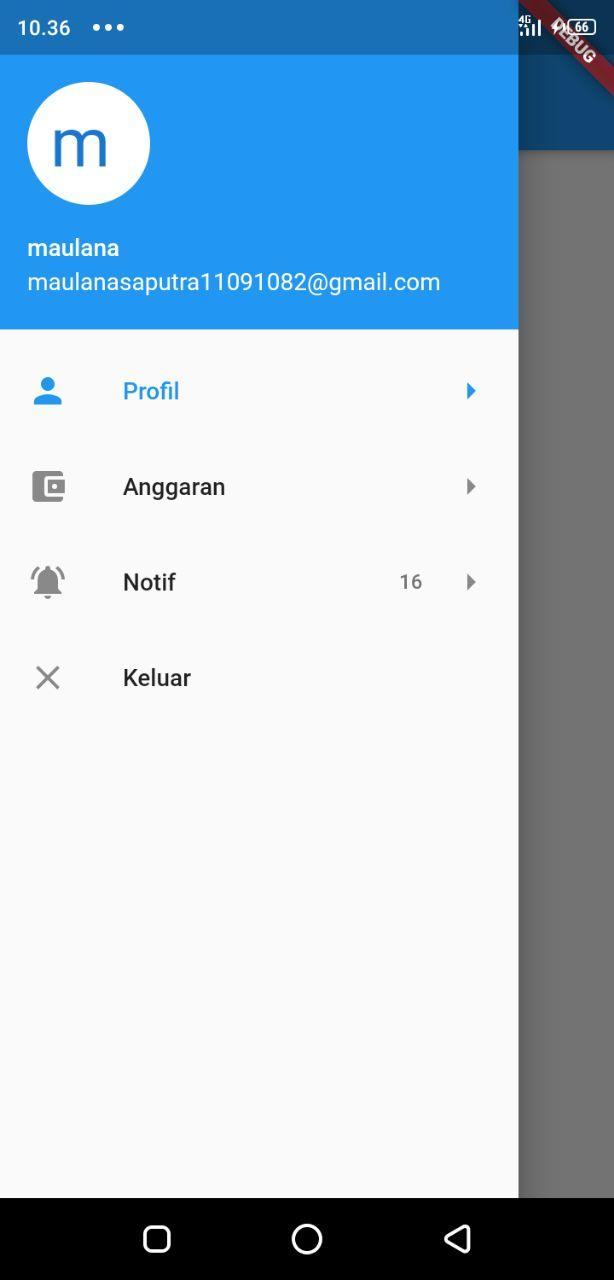
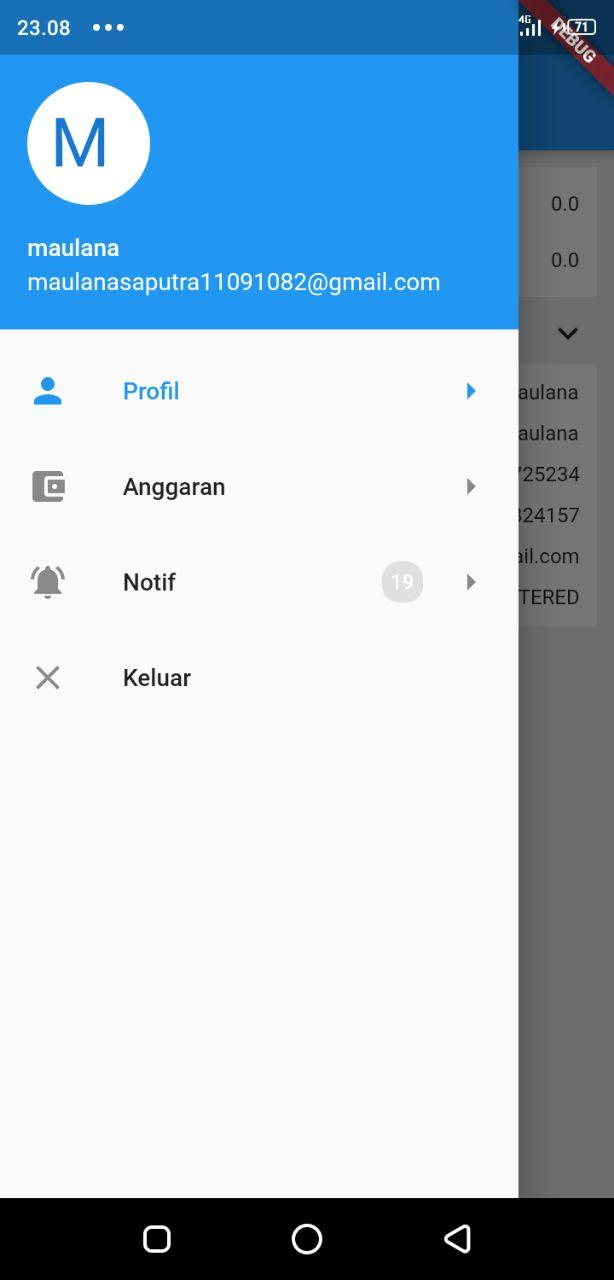
fixed on issued #1

diff --git a/example/lib/screen/home/fragment/profile_fragment.dart b/example/lib/screen/home/fragment/profile_fragment.dart
@@ -58,20 +58,25 @@ class _ProfileFragmentState extends State<ProfileFragment> {
 			child: ListView(
 				padding: EdgeInsets.zero,
 				children: [
-					Container(
-						padding: EdgeInsets.all(5.0),
-						color: Colors.white,
-						child: Column(
-							children: [
-								dataOvo('OVO', '${result['balance']['OVO']['card_no']}', double.parse('${result['balance']['OVO']['cardBalance']}')),
-								dataOvo('OVO Cash', '${result['balance']['OVOCash']['card_no']}', double.parse('${result['balance']['OVOCash']['cardBalance']}')),
-							]
-						),
-					),
+					infoOvo(),
 					SizedBox(height: 5.0),
-					dataProfile()
+					setTitle('Data Pribadi'),
+					infoProfile()
 				]
 			)
+		);
+	}
+	
+	Widget infoOvo() {
+		return Container(
+			padding: EdgeInsets.all(5.0),
+			color: Colors.white,
+			child: Column(
+				children: [
+					dataOvo('OVO', '${result['balance']['OVO']['card_no']}', double.parse('${result['balance']['OVO']['cardBalance']}')),
+					dataOvo('OVO Cash', '${result['balance']['OVOCash']['card_no']}', double.parse('${result['balance']['OVOCash']['cardBalance']}')),
+				]
+			),
 		);
 	}
 	
@@ -86,34 +91,64 @@ class _ProfileFragmentState extends State<ProfileFragment> {
 						child: Row(
 							mainAxisAlignment: MainAxisAlignment.spaceBetween,
 							children: [
-								Text(type, style: TextStyle(fontSize: 14.0)),
+								Text(type, style: TextStyle(fontSize: 12.0, fontWeight: FontWeight.bold)),
 								Container(
 									padding: EdgeInsets.all(5.0),
 									decoration: BoxDecoration(
 										color: Colors.grey[300],
 										borderRadius: BorderRadius.circular(10.0),
 									),
-									child: Text(card, style: TextStyle(color: Colors.white, fontSize: 12.0)),
+									child: Text(card, style: TextStyle(color: Colors.white, fontSize: 11.0)),
 								),
 							]
 						),
 					),
-					Text('${balance}', style: TextStyle(fontSize: 14.0)),
+					Text('${balance}', style: TextStyle(fontSize: 12.0)),
 				]
 			),
 		);
 	}
 	
-	Widget dataProfile() {
+	Widget setTitle(String title) {
 		return Container(
 			padding: EdgeInsets.all(5.0),
 			child: Row(
 				mainAxisAlignment: MainAxisAlignment.spaceBetween,
 				children: [
-					Text('Data Pribadi', style: TextStyle(fontSize: 14.0, fontWeight: FontWeight.bold)),
+					Text(title, style: TextStyle(fontSize: 14.0, fontWeight: FontWeight.bold)),
 					Icon(Icons.keyboard_arrow_down)
 				]
 			)
+		);
+	}
+	
+	Widget infoProfile() {
+		return Container(
+			padding: EdgeInsets.all(5.0),
+			color: Colors.white,
+			child: Column(
+				children: [
+					record('Nama', '${result['profile']['fullName']}'),
+					record('Nama Panggil', '${result['profile']['nickName']}'),
+					record('OVO ID', '${result['profile']['ovoId']}'),
+					record('No Handphone', '${result['profile']['telephones'][0]['number']}'),
+					record('Email', '${result['profile']['emails'][0]['address']}'),
+					record('Status', '${result['profile']['state']}'),
+				]
+			),
+		);
+	}
+	
+	Widget record(String name, String value) {
+		return Container(
+			padding: EdgeInsets.all(5.0),
+			child: Row(
+				mainAxisAlignment: MainAxisAlignment.spaceBetween,
+				children: [
+					Text(name, style: TextStyle(fontSize: 12.0, fontWeight: FontWeight.bold)),
+					Text(value, style: TextStyle(fontSize: 12.0)),
+				]
+			),
 		);
 	}
 }

diff --git a/example/lib/screen/home/fragment/budget_fragment.dart b/example/lib/screen/home/fragment/budget_fragment.dart
@@ -1,4 +1,5 @@
 import 'dart:async';
+import 'dart:convert';
 
 import 'package:flutter/material.dart';
 import 'package:shared_preferences/shared_preferences.dart';
@@ -12,6 +13,12 @@ class BudgetFragment extends StatefulWidget {
 class _BudgetFragmentState extends State<BudgetFragment> {
 	OvoidFlutter ovoid = new OvoidFlutter();
 	
+	bool isError = false;
+	String reason;
+	
+	List summary;
+	Map<String, dynamic> budget;
+	
 	Future<String> getPreference(String index) async {
 		SharedPreferences preferences = await SharedPreferences.getInstance();
 		return preferences.getString(index);
@@ -20,7 +27,14 @@ class _BudgetFragmentState extends State<BudgetFragment> {
 	getBudget() async {
 		ovoid.authToken = await getPreference('token');
 		final response = await ovoid.getBudget();
-		print(response);
+		
+		if (!["", null, false, 0].contains(response['code'])) {
+			setState(() => isError = true);
+			setState(() => reason = !["", null, false, 0].contains(response['message']) ? response['message'] : " ");
+		} else {
+			setState(() => summary = response['summary']);
+			setState(() => budget = response['budget']);
+		}
 	}
 	
 	@override
@@ -31,8 +45,87 @@ class _BudgetFragmentState extends State<BudgetFragment> {
 	
 	@override
 	Widget build(BuildContext context) {
+		return isError ? errorResult() : dataResult(context);
+	}
+	
+	Widget errorResult() {
 		return Center(
-			child: new Text("Hello Fragment Budget"),
+			child: new Text(reason),
+		);
+	}
+	
+	Widget dataResult(BuildContext context) {
+		return Container(
+			color: Colors.grey[200],
+			padding: EdgeInsets.all(10.0),
+			child: ListView(
+				padding: EdgeInsets.zero,
+				children: [
+					infoBudget(),
+					SizedBox(height: 5.0),
+					setTitle('Ringkasan'),
+					infoSummary()
+				]
+			),
+		);
+	}
+	
+	Widget infoBudget() {
+		return Container(
+			padding: EdgeInsets.all(5.0),
+			color: Colors.white,
+			child: Column(
+				children: [
+					record('Dana', double.parse('${budget['amount']}')),
+					record('Pengeluaran', double.parse('${budget['spending']}')),
+				]
+			),
+		);
+	}
+	
+	Widget setTitle(String title) {
+		return Container(
+			padding: EdgeInsets.all(5.0),
+			child: Row(
+				mainAxisAlignment: MainAxisAlignment.spaceBetween,
+				children: [
+					Text(title, style: TextStyle(fontSize: 14.0, fontWeight: FontWeight.bold)),
+					Icon(Icons.keyboard_arrow_down)
+				]
+			)
+		);
+	}
+	
+	Widget record(String name, double balance) {
+		return Container(
+			padding: EdgeInsets.all(5.0),
+			child: Row(
+				mainAxisAlignment: MainAxisAlignment.spaceBetween,
+				children: [
+					Text(name, style: TextStyle(fontSize: 12.0, fontWeight: FontWeight.bold)),
+					Text('${balance}', style: TextStyle(fontSize: 12.0)),
+				]
+			),
+		);
+	}
+	
+	Widget infoSummary() {
+		return ListView.builder(
+			shrinkWrap: true,
+			itemCount: summary.length,
+			itemBuilder: (context, index) {
+				return Card(
+					child: Padding(
+						padding: EdgeInsets.all(5.0),
+						child: Column(
+							children: [
+								record('Dana', double.parse('${summary[index]['amount']}')),
+								record('Pengeluaran', double.parse('${summary[index]['spending']}')),
+							]
+						),
+					),
+				);
+			},
 		);
 	}
 }

diff --git a/example/lib/screen/home/fragment/notification_fragment.dart b/example/lib/screen/home/fragment/notification_fragment.dart
@@ -1,4 +1,5 @@
 import 'dart:async';
+import 'dart:convert';
 
 import 'package:flutter/material.dart';
 import 'package:shared_preferences/shared_preferences.dart';
@@ -12,6 +13,11 @@ class NotificationFragment extends StatefulWidget {
 class _NotificationFragmentState extends State<NotificationFragment> {
 	OvoidFlutter ovoid = new OvoidFlutter();
 	
+	bool isError = false;
+	String reason;
+	
+	List notifications;
+	
 	Future<String> getPreference(String index) async {
 		SharedPreferences preferences = await SharedPreferences.getInstance();
 		return preferences.getString(index);
@@ -20,7 +26,13 @@ class _NotificationFragmentState extends State<NotificationFragment> {
 	getNotification() async {
 		ovoid.authToken = await getPreference('token');
 		final response = await ovoid.allNotification();
-		print(response);
+		
+		if (!["", null, false, 0].contains(response['code'])) {
+			setState(() => isError = true);
+			setState(() => reason = !["", null, false, 0].contains(response['message']) ? response['message'] : " ");
+		} else {
+			setState(() => notifications = response['notifications']);
+		}
 	}
 	
 	@override
@@ -31,8 +43,34 @@ class _NotificationFragmentState extends State<NotificationFragment> {
 	
 	@override
 	Widget build(BuildContext context) {
+		return isError ? errorResult() : dataResult(context);
+	}
+	
+	Widget errorResult() {
 		return Center(
-			child: new Text("Hello Fragment Notification"),
+			child: new Text(reason),
+		);
+	}
+	
+	Widget dataResult(BuildContext context) {
+		return Container(
+			color: Colors.grey[200],
+			padding: EdgeInsets.all(10.0),
+			child: ListView.builder(
+				shrinkWrap: true,
+				itemCount: notifications.length,
+				itemBuilder: (context, index) {
+					Map<String, dynamic> message = jsonDecode(notifications[index]['message']);
+					return Card(
+						child: Padding(
+							padding: EdgeInsets.all(8.0),
+							child: ListTile(
+								title: Text(message['message'], style: TextStyle(fontSize: 14.0, )),
+							)
+						)
+					);
+				},
+			),
 		);
 	}
 }

diff --git a/example/lib/screen/home/dashboard_page.dart b/example/lib/screen/home/dashboard_page.dart
@@ -75,11 +75,12 @@ class _DashboardPageState extends State<DashboardPage> {
 	initPreference() async {
 		fullName = await getPreference('fullName');
 		email = await getPreference('email');
+		
 		totalUnread = await getUnreadNotification();
-		setState(() => fullName = fullName);
-		setState(() => email = email);
-		setState(() => totalUnread = totalUnread);
-		print(totalUnread);
+		
+		setState(() => fullName = !["", null, false, 0].contains(fullName) ? fullName : " ");
+		setState(() => email = !["", null, false, 0].contains(email) ? email : " ");
+		setState(() => totalUnread = !["", null, false, 0].contains(totalUnread) ? totalUnread : 0);
 	}
 	
 	@override
@@ -166,7 +167,7 @@ class _DashboardPageState extends State<DashboardPage> {
 		
 		String initials = ((nameArray[0])[0] != null ? (nameArray[0])[0] : " ") + (nameArray.length == 1 ? " " : (nameArray[nameArray.length - 1])[0]);
 		
-		return initials;
+		return initials.toUpperCase();
 	}
 }
 

diff --git a/lib/ovoid_flutter.dart b/lib/ovoid_flutter.dart
@@ -100,7 +100,10 @@ class OvoidFlutter {
 		
 		if (!["", null, false, 0].contains(response['code'])) return { 'code': '${response['code']}', 'message': response['message'] };
 		
-		return {};
+		return {
+			'budget'			: response['budget'],
+			'summary'			: response['summary']
+		};
 	}
 	
 	Future balanceModel() async {

diff --git a/README.md b/README.md
@@ -14,16 +14,16 @@ Repository berikut ini merupakan porting dari [ovoid](https://github.com/lintang
 | `generateTrxId`  | In Progress  |
 | `transferOvo`  | In Progress  |
 
-### Instalasi
+### Ambil paket
 
 ```js
-`flutter pub get`
+flutter pub get
 ```
 
-### Buka pada folder example dan jalankan
+### Jalankan pada folder example
 
 ```js
-`flutter run`
+flutter run
 ```
 
 ### Dokumentasi
@@ -55,7 +55,7 @@ final total = (await ovoid.unreadHistory())['total'];
 ##### Mendapatkan notifikasi akun ovo anda
 ```js
 ovoid.authToken = token;
-final notif = (await ovoid.allNotification())['allNotification'];
+final notifikasi = (await ovoid.allNotification())['allNotification'];
 ```
 #### Mendapatkan balance
 ```js
@@ -68,10 +68,19 @@ ovoid.authToken = token;
 await ovoid.logout();
 ```
 #### Contoh
-##### login (masukan nomor handphone, dialog OTP, dialog PIN)
+##### login
+- masukan nomor handphone
+- dialog OTP
+- dialog PIN
 ![login](https://github.com/maulana20/ovoid-flutter/blob/master/screen/login.jpg)
-##### dashboard
+##### menu utama
 ![login](https://github.com/maulana20/ovoid-flutter/blob/master/screen/dashboard.jpg)
+##### profil
+![profile](https://github.com/maulana20/ovoid-flutter/blob/master/screen/profile.jpg)
+##### anggaran
+![budget](https://github.com/maulana20/ovoid-flutter/blob/master/screen/budget.jpg)
+##### notifikasi
+![notification](https://github.com/maulana20/ovoid-flutter/blob/master/screen/notification.jpg)
 
 ### Author
 
